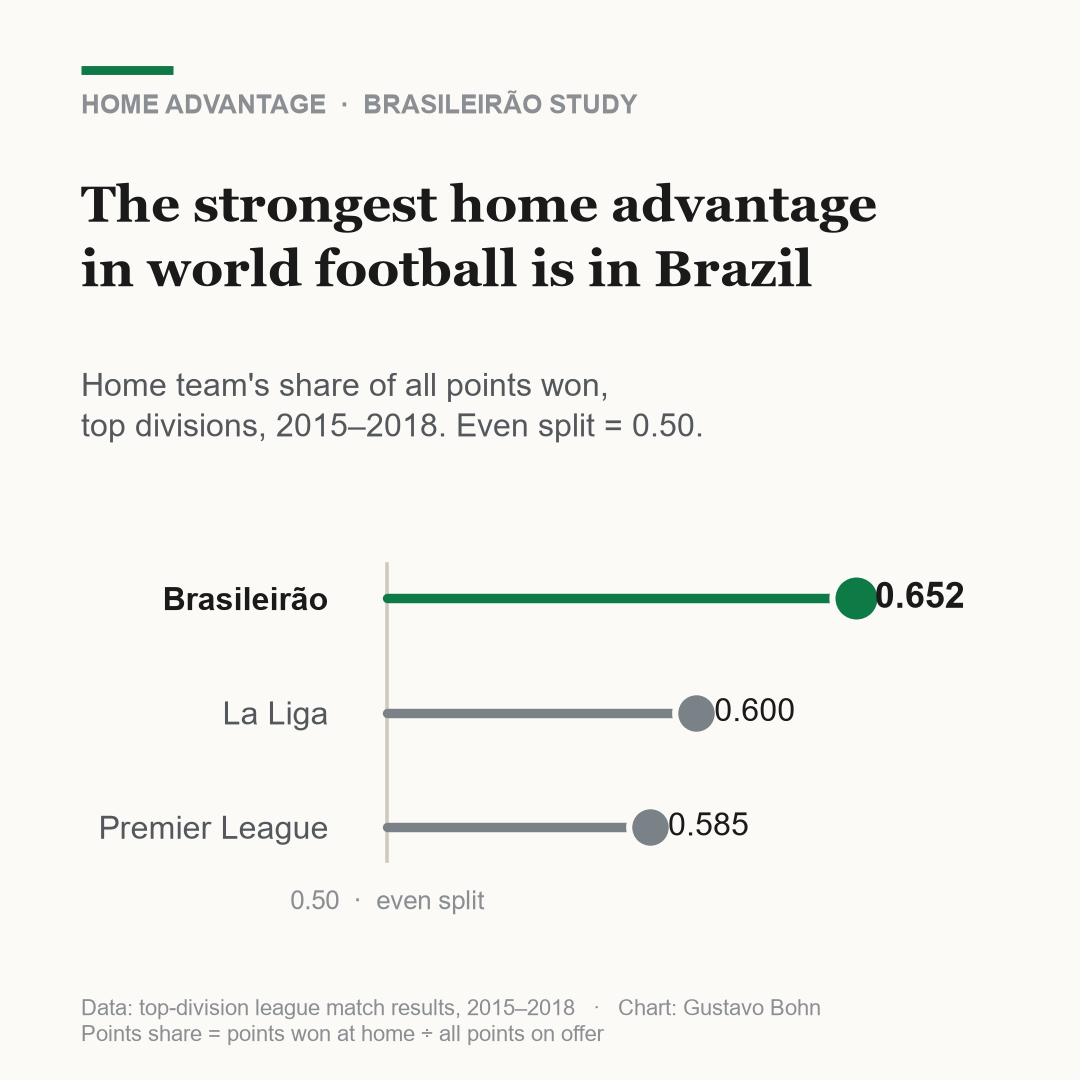
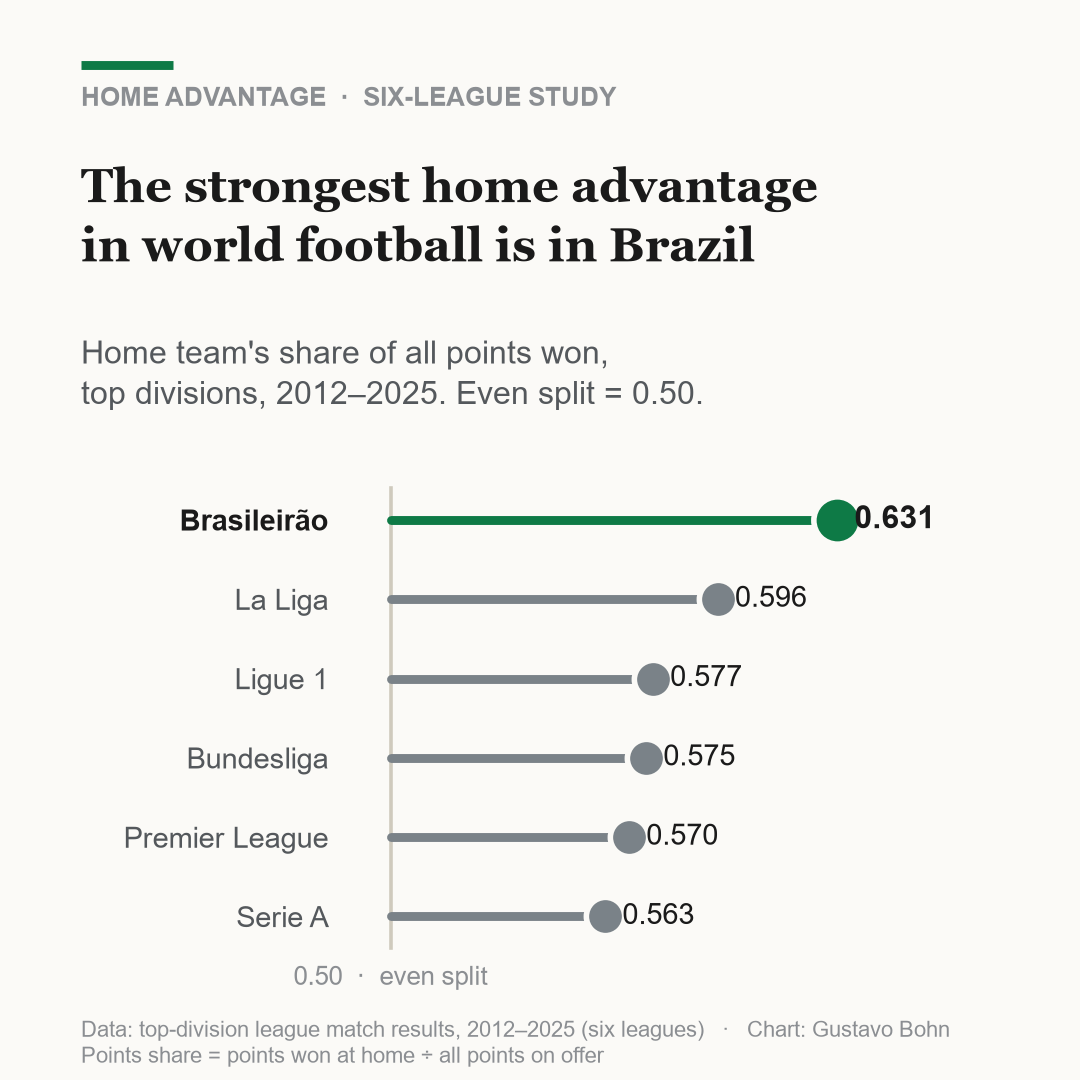
feat: Post 1 chart over full matched window, all six leagues
Rebuild post1 home-advantage chart on the fullest matched window every
league shares (2012-2025, leagues.parquet) instead of the 2015-2018 teaser
window, and widen from three leagues to all six. Brazil (0.631) leads
La Liga 0.596, Ligue 1 0.577, Bundesliga 0.575, Premier League 0.570,
Serie A 0.563. Light, dark, and square variants regenerated.

Also add post1-ready-to-publish.md: the LinkedIn post copy and first-comment
options, matched to the six-league chart (single 2012-2025 window).

diff --git a/reports/social/make_social_charts.py b/reports/social/make_social_charts.py
@@ -56,52 +56,61 @@ def _clean(ax, t):
 
 
 # ---------------------------------------------------------------- Post 1
-# Home points share, 2015-2018 (CLAUDE.md / notebook 02): BRA 0.652, ESP 0.600, ENG 0.585
+# Home points share, matched window 2012-2025 (leagues.parquet, analysis.home_points_share):
+# BRA 0.6312, ESP 0.5956, FRA 0.5773, GER 0.5746, ENG 0.5703, ITA 0.5626.
+# Matched window = the fullest span all six leagues share.
 def home_advantage(theme="light", shape="45"):
     t = THEMES[theme]
-    data = [("Premier League", 0.585, False),
-            ("La Liga", 0.600, False),
-            ("Brasileirão", 0.652, True)]
+    order = [("Brasileirão", 0.631, True),
+             ("La Liga", 0.596, False),
+             ("Ligue 1", 0.577, False),
+             ("Bundesliga", 0.575, False),
+             ("Premier League", 0.570, False),
+             ("Serie A", 0.563, False)]
+    data = order[::-1]  # plot bottom-to-top so Brazil lands on top
 
     if shape == "45":
         fig = plt.figure(figsize=(5.4, 6.75), dpi=200)
-        _header(fig, t, "HOME ADVANTAGE  ·  BRASILEIRÃO STUDY",
+        _header(fig, t, "HOME ADVANTAGE  ·  SIX-LEAGUE STUDY",
                 "The strongest home advantage\nin world football is in Brazil",
-                "Home team's share of all points won, top divisions, 2015–2018.\n"
+                "Home team's share of all points won, top divisions, 2012–2025.\n"
                 "An even split would be 0.50.",
                 rule_y=0.945, eyebrow_y=0.912, head_y=0.86, head_size=20.5, dek_y=0.735)
-        ax = fig.add_axes([0.33, 0.205, 0.60, 0.40])
+        ax = fig.add_axes([0.33, 0.15, 0.60, 0.46])
         foot_y0 = 0.058
+        tick_sz, hero_sz, base_sz = 11, 13, 11
     else:  # 1:1 square
         fig = plt.figure(figsize=(5.4, 5.4), dpi=200)
-        _header(fig, t, "HOME ADVANTAGE  ·  BRASILEIRÃO STUDY",
+        _header(fig, t, "HOME ADVANTAGE  ·  SIX-LEAGUE STUDY",
                 "The strongest home advantage\nin world football is in Brazil",
-                "Home team's share of all points won,\ntop divisions, 2015–2018. Even split = 0.50.",
-                rule_y=0.935, eyebrow_y=0.895, head_y=0.835, head_size=18.5, dek_y=0.66)
-        ax = fig.add_axes([0.33, 0.16, 0.60, 0.36])
-        foot_y0 = 0.075
+                "Home team's share of all points won,\ntop divisions, 2012–2025. Even split = 0.50.",
+                rule_y=0.94, eyebrow_y=0.902, head_y=0.85, head_size=17, dek_y=0.69)
+        ax = fig.add_axes([0.33, 0.10, 0.60, 0.47])
+        foot_y0 = 0.055
+        tick_sz, hero_sz, base_sz = 10.5, 11.5, 10.5
     fig.patch.set_facecolor(t["surface"])
     _clean(ax, t)
 
-    ax.plot([0.50, 0.50], [-0.3, 2.3], color=t["ref"], lw=1.3, zorder=1)
-    for y, (name, val, hero) in enumerate(data):
+    ax.plot([0.50, 0.50], [-0.4, 5.4], color=t["ref"], lw=1.3, zorder=1)
+    for y, (nm, val, hero) in enumerate(data):
         c = t["accent"] if hero else t["muted"]
-        ax.plot([0.50, val], [y, y], color=c, lw=3.4, solid_capstyle="round", zorder=2)
-        ax.scatter(val, y, s=300 if hero else 235, color=c, zorder=3,
-                   edgecolor=t["surface"], linewidth=2.2)
-        ax.text(val + 0.006, y, f"{val:.3f}", va="center", ha="left", color=t["ink"],
-                fontsize=13 if hero else 11.5, fontweight="bold" if hero else "normal")
-    ax.set_xlim(0.49, 0.70)
-    ax.set_ylim(-0.7, 2.7)
+        ax.plot([0.50, val], [y, y], color=c, lw=3.2, solid_capstyle="round", zorder=2)
+        ax.scatter(val, y, s=290 if hero else 190, color=c, zorder=3,
+                   edgecolor=t["surface"], linewidth=2.0)
+        ax.text(val + 0.005, y, f"{val:.3f}", va="center", ha="left", color=t["ink"],
+                fontsize=hero_sz if hero else base_sz,
+                fontweight="bold" if hero else "normal")
+    ax.set_xlim(0.49, 0.68)
+    ax.set_ylim(-0.7, 5.7)
     ax.set_yticks(range(len(data)))
-    ax.set_yticklabels([d[0] for d in data], fontsize=11.5, color=t["ink2"])
+    ax.set_yticklabels([d[0] for d in data], fontsize=tick_sz, color=t["ink2"])
     for tick, d in zip(ax.get_yticklabels(), data):
         if d[2]:
             tick.set_color(t["ink"]); tick.set_fontweight("bold")
-    ax.text(0.50, -0.55, "0.50  ·  even split", ha="center", va="top",
+    ax.text(0.50, -0.62, "0.50  ·  even split", ha="center", va="top",
             color=t["ink3"], fontsize=9.5)
 
-    _footer(fig, t, ["Data: top-division league match results, 2015–2018   ·   Chart: Gustavo Bohn",
+    _footer(fig, t, ["Data: top-division league match results, 2012–2025 (six leagues)   ·   Chart: Gustavo Bohn",
                      "Points share = points won at home ÷ all points on offer"], y0=foot_y0)
     name = f"post1_home_advantage_{'square' if shape=='11' else theme}"
     fig.savefig(OUT / f"{name}.png", facecolor=t["surface"])

diff --git a/reports/social/post1-ready-to-publish.md b/reports/social/post1-ready-to-publish.md
@@ -1,0 +1,75 @@
+# Post 1 — Ready to Publish (Authority / F7 Odd-Precision)
+
+## ⚠️ Before you post: you need a public link
+
+The first comment carries the article link. Right now the article (README.md) only
+exists on your machine. Publish it publicly first, then paste the URL where marked below.
+
+Fastest option: push this repo to a **public** GitHub repo. GitHub renders README.md
+(figures and all) as the repo landing page, so the repo URL is the article.
+Example URL shape: `https://github.com/<your-username>/data-football`
+
+---
+
+## 1) THE POST (paste into the post box)
+
+Home teams in the Brasileirão take 63.1% of all points on offer.
+
+Not 63%. 0.631, across 5,319 matches from 2012 to 2025. I counted every one.
+
+I went looking for the strongest home advantage in world football. Here is the ledger, home share of all points won, Brazil against every one of Europe's big five, same 2012 to 2025 window:
+
+- Brasileirão: 0.631
+- La Liga: 0.596
+- Ligue 1: 0.577
+- Bundesliga: 0.575
+- Premier League: 0.570
+- Serie A: 0.563
+
+That gap looks small. It isn't. Over a 38-game season it's the difference between a Champions League spot and mid-table.
+
+What surprised me: the usual suspects don't explain it. I built features for travel distance, altitude, heat, days of rest. Then I tested whether any of them predict a single match better than a plain Elo rating.
+
+They don't. The home edge is enormous in the season table.. and almost invisible match to match, because the rating already knows.
+
+So the real question isn't "why do home teams win." It's why the effect is so much bigger here than in Europe, and I don't think crowd noise alone covers it.
+
+Full breakdown in the comments.
+
+What's a number in your field that everyone rounds off and shouldn't?
+
+#FootballAnalytics #DataScience
+
+---
+
+## 2) THE FIRST COMMENT (paste as your own first comment, right after posting)
+
+### Recommended (bonus-stat version — rewards the reader who clicks into comments)
+
+One more number that didn't fit above: even during the closed-door COVID window, with empty stadiums, the home points share only fell from 0.634 to 0.582. Crowd is part of it, not all of it. Full breakdown, charts and code: [PASTE PUBLIC LINK HERE]
+
+### Alternate (plain value version)
+
+If you want the how, not just the number: the write-up walks through the crowd, travel and heat decomposition, the model, and where each effect shows up (and where it vanishes). Charts and code included: [PASTE PUBLIC LINK HERE]
+
+---
+
+## 3) HOW TO POST THE FIRST COMMENT (mechanics)
+
+1. Publish the post first. Do NOT put the link in the post body — LinkedIn throttles
+   reach on posts with outbound links in the body.
+2. Within the first minute, add the first comment yourself as the author, with the link.
+   Being the first comment + early activity is a reach signal, and the link is safe here.
+3. Don't edit the post afterward to sneak the link in. Editing right after publishing can
+   dampen reach, and a body link is penalized anyway. Keep the link in the comment.
+4. For the next 60 minutes, reply fast to every commenter. Reply latency in the first hour
+   is one of the strongest reach multipliers. Have 2-3 answers ready for the obvious
+   pushback ("small sample", "refs bias", "isn't this just crowd noise").
+5. Optional: leave the link comment as-is. If your account shows a pin/feature option on
+   your own comment, pin it so it stays at the top.
+
+## Verify before posting
+- [ ] Public link works in an incognito window (no login wall, figures render)
+- [ ] Post body has NO link
+- [ ] First comment has the link at the very end
+- [ ] The two numbers match your data: 0.634 -> 0.582 (closed-door window)